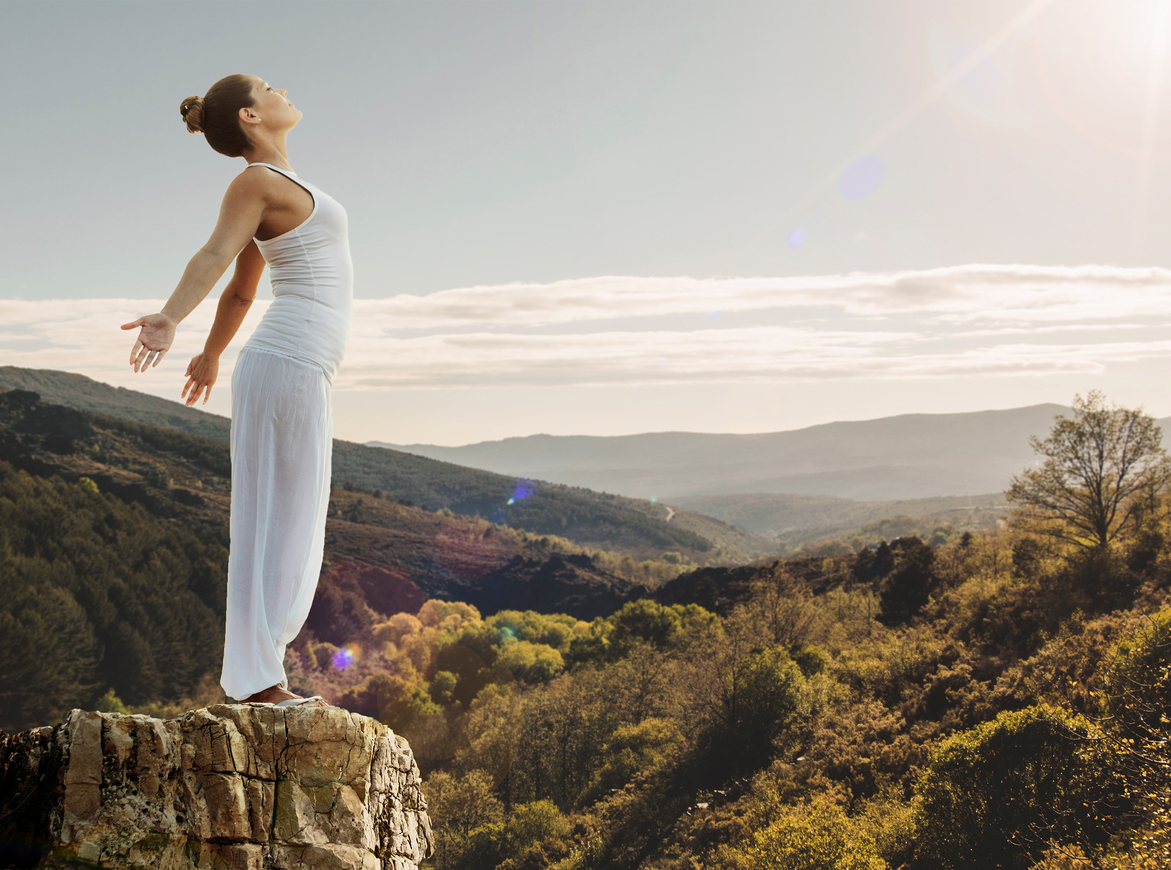
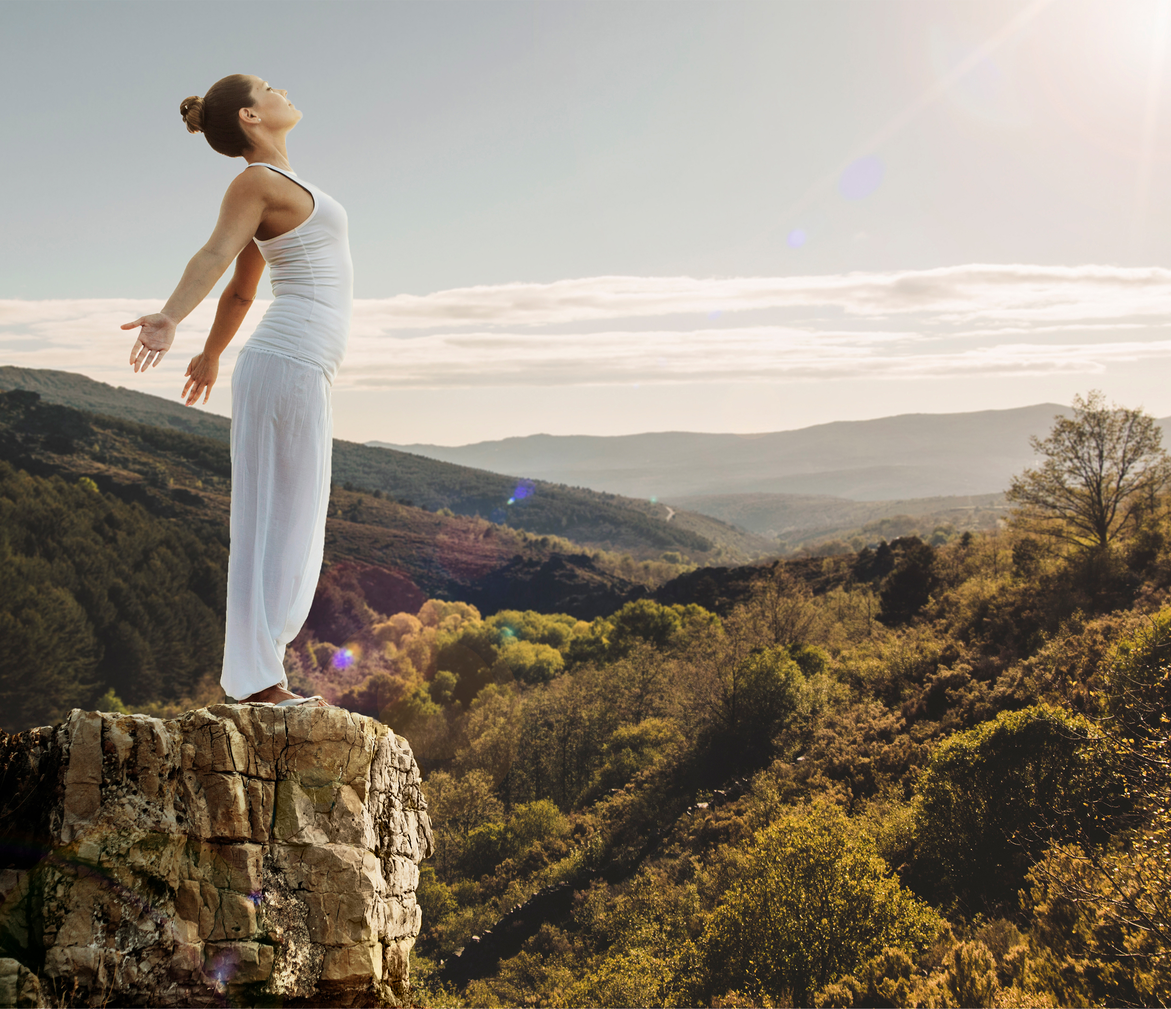
Text section addedd

diff --git a/assets/css/style.min.css b/assets/css/style.min.css
@@ -1,1 +1,1 @@
-*{margin:0;padding:0;-webkit-box-sizing:border-box;-moz-box-sizing:border-box;box-sizing:border-box}h1,h2,h3,h4{font-family:"Cardo",serif;font-weight:700}h1{font-size:10vw}h4{font-size:60px}h5{font-size:20px}body,p,a,input,button,textarea{font-family:"Cardo",serif;font-weight:400}img{max-width:100%;width:100%;vertical-align:middle;border:none}.nav-wrap{position:fixed;top:0;right:0;left:0;width:100%;display:-webkit-box;display:-webkit-flex;display:-moz-box;display:-ms-flexbox;display:flex;-webkit-box-align:center;-webkit-align-items:center;-moz-box-align:center;-ms-flex-align:center;align-items:center;-webkit-box-pack:end;-webkit-justify-content:end;-moz-box-pack:end;-ms-flex-pack:end;justify-content:end;z-index:999}.nav-wrap nav.nav{padding:20px 30px;text-align:right}.nav-wrap nav.nav .weblogo{max-width:150px;display:inline-block}.nav-wrap nav.nav .weblogo img{max-width:150px}.banner{min-height:100vh;width:100%;background-color:#499098;position:relative;z-index:1;background-blend-mode:color}.banner img{min-height:100%;min-width:100%;-o-object-fit:cover;object-fit:cover;-o-object-position:left top;object-position:left top;opacity:.65}.about{min-height:100vh;padding:80px 50px;position:relative;z-index:20;display:-webkit-box;display:-webkit-flex;display:-moz-box;display:-ms-flexbox;display:flex;-webkit-align-self:center;-ms-flex-item-align:center;align-self:center;-webkit-box-pack:end;-webkit-justify-content:flex-end;-moz-box-pack:end;-ms-flex-pack:end;justify-content:flex-end}.about .about-immer{position:relative;z-index:20;display:-webkit-box;display:-webkit-flex;display:-moz-box;display:-ms-flexbox;display:flex;-webkit-box-align:center;-webkit-align-items:center;-moz-box-align:center;-ms-flex-align:center;align-items:center;text-align:right;color:#fff !important}.about .about-immer .text-wrap{max-width:800px}.about::after{position:absolute;content:"";background-image:url("../images/angle-blue.png");background-position:top;-webkit-background-size:cover;-o-background-size:cover;background-size:cover;top:-43%;left:0;bottom:0;right:0;z-index:9}/*# sourceMappingURL=style.min.css.map */
+*{margin:0;padding:0;-webkit-box-sizing:border-box;-moz-box-sizing:border-box;box-sizing:border-box}h1,h2,h3,h4{font-family:"Cardo",serif;font-weight:700}h1{font-size:200px}h4{font-size:65px;margin:30px 0}h5{font-size:25px}body,p,a,input,button,textarea{font-family:"Cardo",serif;font-weight:400}img{max-width:100%;width:100%;vertical-align:middle;border:none}.nav-wrap{position:fixed;top:0;right:0;left:0;width:100%;display:-webkit-box;display:-webkit-flex;display:-moz-box;display:-ms-flexbox;display:flex;-webkit-box-align:center;-webkit-align-items:center;-moz-box-align:center;-ms-flex-align:center;align-items:center;-webkit-box-pack:end;-webkit-justify-content:end;-moz-box-pack:end;-ms-flex-pack:end;justify-content:end;z-index:999}.nav-wrap nav.nav{padding:20px 30px;text-align:right}.nav-wrap nav.nav .weblogo{max-width:150px;display:inline-block}.nav-wrap nav.nav .weblogo img{max-width:150px}.banner{width:100%;background-color:#499098;position:relative;z-index:1;background-blend-mode:color}.banner .about{margin-top:-15%;padding:120px 80px;position:relative;z-index:20;display:-webkit-box;display:-webkit-flex;display:-moz-box;display:-ms-flexbox;display:flex;-webkit-align-self:center;-ms-flex-item-align:center;align-self:center;-webkit-box-pack:end;-webkit-justify-content:flex-end;-moz-box-pack:end;-ms-flex-pack:end;justify-content:flex-end}.banner .about .about-immer{position:relative;z-index:20;display:-webkit-box;display:-webkit-flex;display:-moz-box;display:-ms-flexbox;display:flex;-webkit-box-align:center;-webkit-align-items:center;-moz-box-align:center;-ms-flex-align:center;align-items:center;text-align:right;color:#fff !important}.banner .about .about-immer .text-wrap{max-width:1024px;margin-left:auto}.banner .about::after{position:absolute;content:"";background-image:url("../images/angle-blue.png");background-position:top;-webkit-background-size:cover;-o-background-size:cover;background-size:cover;top:-20%;left:0;bottom:0;right:0;z-index:9}/*# sourceMappingURL=style.min.css.map */

diff --git a/assets/css/style.scss b/assets/css/style.scss
@@ -14,14 +14,18 @@ h4 {
 }
 
 h1 {
-    font-size: 10vw;
+    font-size: 200px;
 }
+
 h4 {
-    font-size: 60px;
+    font-size: 65px;
+    margin: 30px 0;
 }
+
 h5 {
-    font-size: 20px;
+    font-size: 25px;
 }
+
 body,
 p,
 a,
@@ -68,59 +72,50 @@ img {
 }
 
 .banner {
-    min-height: 100vh;
     width: 100%;
     background-color: #499098;
     position: relative;
     z-index: 1;
     background-blend-mode: color;
 
-    img {
-        min-height: 100%;
-        min-width: 100%;
-        object-fit: cover;
-        object-position: left top;
-        opacity: .65;
-
-    }
-}
-
-.about {
-    min-height: 100vh;
-    padding: 80px 50px;
-    position: relative;
-    z-index: 20;
-    display: flex;
-    align-self: center;
-    justify-content: flex-end;
-
-    .about-immer {
+    .about {
+        margin-top: -15%;
+        padding: 120px 80px;
         position: relative;
-    z-index: 20;
+        z-index: 20;
         display: flex;
-        align-items: center;
-        text-align: right;
-        color: #fff !important;
+        align-self: center;
+        justify-content: flex-end;
 
-        .text-wrap {
-            max-width: 800px;
+        .about-immer {
+            position: relative;
+            z-index: 20;
+            display: flex;
+            align-items: center;
+            text-align: right;
+            color: #fff !important;
+
+            .text-wrap {
+                max-width: 1024px;
+                margin-left: auto;
+            }
         }
+
+        &::after {
+            position: absolute;
+            content: "";
+            background-image: url("../images/angle-blue.png");
+            background-position: top;
+            -webkit-background-size: cover;
+            -o-background-size: cover;
+            background-size: cover;
+            top: -20%;
+            left: 0;
+            bottom: 0;
+            right: 0;
+            z-index: 9;
+        }
+
+
     }
-
-    &::after {
-        position: absolute;
-        content: "";
-        background-image: url("../images/angle-blue.png");
-        background-position: top;
-        -webkit-background-size: cover;
-        -o-background-size: cover;
-        background-size: cover;
-        top: -43%;
-        left: 0;
-        bottom: 0;
-        right: 0;
-        z-index: 9;
-    }
-
-
 }

diff --git a/index.html b/index.html
@@ -23,20 +23,21 @@
         <!-- Banner section  -->
         <section class="banner">
             <img src="./assets/images/banner.jpg" alt="">
-        </section>
-
-        <section class="about">
-            <div class="about-immer">
-                <div class="text-wrap">
-                    <h1>yoga day</h1>
-                    <h4>Harmony Between Your <span></span>
-                        Mind And Your Body</h4>
-                    <h5>Lorem ipsum dolor sit amet, consectetur adipiscing elit, sed do eiusmod tempor incididunt ut
-                        labore et dolore magna aliqua. Quis ipsum suspendisse ultrices gravida. Risus commodo viverra
-                        maecenas accumsan lacus vel facilisis. </h5>
+            <div class="about">
+                <div class="about-immer">
+                    <div class="text-wrap">
+                        <h1>yoga day</h1>
+                        <h4>Harmony Between Your <span></span>
+                            Mind And Your Body</h4>
+                        <h5>Lorem ipsum dolor sit amet, consectetur adipiscing elit, sed do eiusmod tempor incididunt ut
+                            labore et dolore magna aliqua. Quis ipsum suspendisse ultrices gravida. Risus commodo viverra
+                            maecenas accumsan lacus vel facilisis. </h5>
+                    </div>
                 </div>
             </div>
         </section>
+
+        
 
 
 
